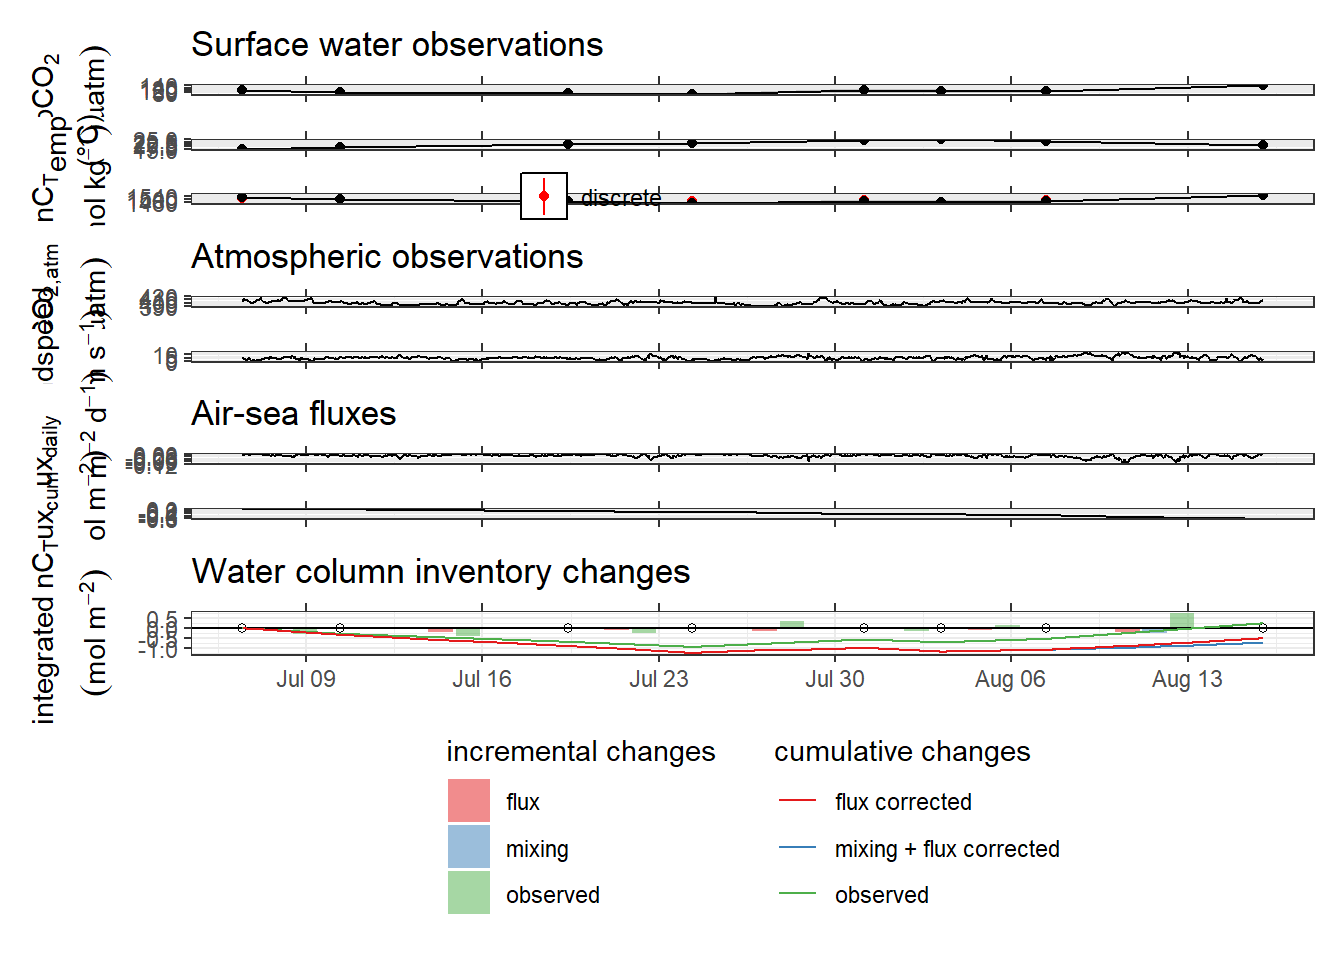
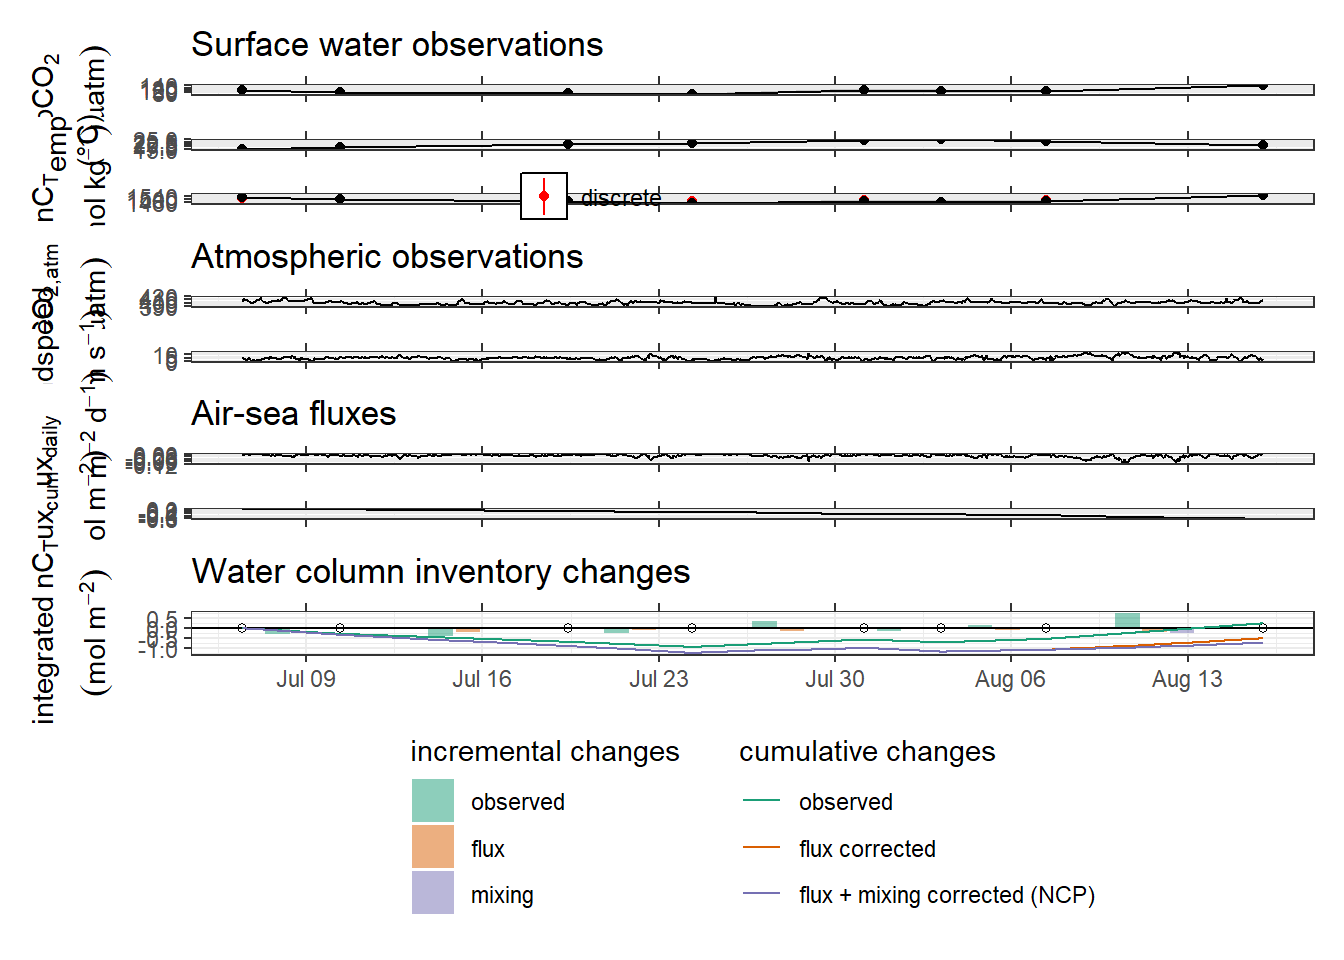
Build site.

diff --git a/docs/CT_dynamics.html b/docs/CT_dynamics.html
@@ -558,16 +558,16 @@ This reproducible <a href="http://rmarkdown.rstudio.com">R Markdown</a> analysis
 <div class="panel panel-default">
 <div class="panel-heading">
 <p class="panel-title">
-<a data-toggle="collapse" data-parent="#workflowr-checks" href="#strongRepositoryversionstrongahrefhttpsgithubcomjensdanielmuellerBloomSailtree3a9d9771bb0649c6eaf51263ec7c28cbbe67de52targetblank3a9d977a"> <span class="glyphicon glyphicon-ok text-success" aria-hidden="true"></span> <strong>Repository version:</strong> <a href="https://github.com/jens-daniel-mueller/BloomSail/tree/3a9d9771bb0649c6eaf51263ec7c28cbbe67de52" target="_blank">3a9d977</a> </a>
+<a data-toggle="collapse" data-parent="#workflowr-checks" href="#strongRepositoryversionstrongahrefhttpsgithubcomjensdanielmuellerBloomSailtree316d86c82f2873b3304ca1480ebd8489c87a3696targetblank316d86ca"> <span class="glyphicon glyphicon-ok text-success" aria-hidden="true"></span> <strong>Repository version:</strong> <a href="https://github.com/jens-daniel-mueller/BloomSail/tree/316d86c82f2873b3304ca1480ebd8489c87a3696" target="_blank">316d86c</a> </a>
 </p>
 </div>
[2 lines of base64/hex data omitted]
 <div class="panel-body">
 <p>
 Great! You are using Git for version control. Tracking code development and connecting the code version to the results is critical for reproducibility.
 </p>
 <p>
-The results in this page were generated with repository version <a href="https://github.com/jens-daniel-mueller/BloomSail/tree/3a9d9771bb0649c6eaf51263ec7c28cbbe67de52" target="_blank">3a9d977</a>. See the <em>Past versions</em> tab to see a history of the changes made to the R Markdown and HTML files.
+The results in this page were generated with repository version <a href="https://github.com/jens-daniel-mueller/BloomSail/tree/316d86c82f2873b3304ca1480ebd8489c87a3696" target="_blank">316d86c</a>. See the <em>Past versions</em> tab to see a history of the changes made to the R Markdown and HTML files.
 </p>
 <p>
 Note that you need to be careful to ensure that all relevant files for the analysis have been committed to Git prior to generating the results (you can use <code>wflow_publish</code> or <code>wflow_git_commit</code>). workflowr only checks the R Markdown file, but you know if there are other scripts or data files that it depends on. Below is the status of the Git repository when the results were generated:
@@ -623,6 +623,40 @@ Message
 </tr>
 </thead>
 <tbody>
+<tr>
+<td>
+Rmd
+</td>
+<td>
+<a href="https://github.com/jens-daniel-mueller/BloomSail/blob/316d86c82f2873b3304ca1480ebd8489c87a3696/analysis/CT_dynamics.Rmd" target="_blank">316d86c</a>
+</td>
+<td>
+jens-daniel-mueller
+</td>
+<td>
+2020-05-11
+</td>
+<td>
+finalized mixing correction
+</td>
+</tr>
+<tr>
+<td>
+html
+</td>
+<td>
+<a href="https://rawcdn.githack.com/jens-daniel-mueller/BloomSail/5e016a60e199b0b776716e247ef9281827da5938/docs/CT_dynamics.html" target="_blank">5e016a6</a>
+</td>
+<td>
+jens-daniel-mueller
+</td>
+<td>
+2020-05-11
+</td>
+<td>
+Build site.
+</td>
+</tr>
 <tr>
 <td>
 Rmd
@@ -4151,7 +4185,7 @@ p_tm_profiles_ID_long_rel &lt;- tm_profiles_ID_long_180723_dep %&gt;%
   theme_bw()
 
 p_tm_profiles_ID_long + p_tm_profiles_ID_long_rel</code></pre>
-<p><img src="figure/CT_dynamics.Rmd/i_nCT_depth_distribution_180723-1.png" width="672" style="display: block; margin: auto;" /></p>
+<p><img src="figure/CT_dynamics.Rmd/nCT_cum_profiles_180723-1.png" width="672" style="display: block; margin: auto;" /></p>
 <pre class="r"><code>rm(tm_profiles_ID_long_180723,
    tm_profiles_ID_long_180723_dep,
    p_tm_profiles_ID_long,
@@ -4191,7 +4225,7 @@ p_tm_profiles_ID_long_rel &lt;- tm_profiles_ID_long_180723_dep %&gt;%
   theme_bw()
 
 p_tm_profiles_ID_long + p_tm_profiles_ID_long_rel</code></pre>
-<p><img src="figure/CT_dynamics.Rmd/i_tem_distribution_180723-1.png" width="672" style="display: block; margin: auto;" /></p>
+<p><img src="figure/CT_dynamics.Rmd/tem_cum_profiles_180723-1.png" width="672" style="display: block; margin: auto;" /></p>
 <pre class="r"><code>rm(tm_profiles_ID_long_180723,
    tm_profiles_ID_long_180723_dep,
    p_tm_profiles_ID_long,
@@ -4214,7 +4248,7 @@ p_tm_profiles_ID_long + p_tm_profiles_ID_long_rel</code></pre>
 <p>The cruise mean pCO<sub>2</sub> recorded in profiling-mode (stations only) and depths &lt; 6m was used for gas exchange calcualtions.</p>
 <pre class="r"><code>tm_profiles_surface_long &lt;- tm_profiles %&gt;% 
   filter(dep &lt; surface_dep) %&gt;% 
-  select(date_time = date_time_ID, ID, tem, pCO2_water = pCO2, nCT) %&gt;% 
+  select(date_time = date_time_ID, ID, tem, pCO2 = pCO2, nCT) %&gt;% 
   pivot_longer(tem:nCT, values_to = &quot;value&quot;, names_to = &quot;var&quot;)
 
 tm_profiles_surface_long_ID &lt;- tm_profiles_surface_long %&gt;% 
@@ -4222,15 +4256,10 @@ tm_profiles_surface_long_ID &lt;- tm_profiles_surface_long %&gt;%
   summarise_all(list(~mean(.), ~sd(.), ~min(.), ~max(.))) %&gt;% 
   ungroup()
 
-# tb_surface_ID &lt;- tb_surface %&gt;% 
-#   group_by(ID, var) %&gt;% 
-#   summarise(date_time_ID = mean(date_time_ID, na.rm = TRUE),
-#             value_mean = mean(value, na.rm = TRUE),
-#             value_sd = sd(value, na.rm = TRUE)) %&gt;% 
-#   ungroup()
+rm(tm_profiles_surface_long)
 
 p_pCO2_surf &lt;- tm_profiles_surface_long_ID %&gt;%
-  filter(var == &quot;pCO2_water&quot;) %&gt;% 
+  filter(var == &quot;pCO2&quot;) %&gt;% 
   ggplot(aes(x=date_time))+
   geom_ribbon(aes(ymin=mean-sd, ymax=mean+sd), alpha=0.2)+
   geom_path(aes(y=mean))+
@@ -4309,15 +4338,17 @@ og &lt;- og %&gt;%
 rm(end, start)</code></pre>
 <p>Data sets for atmospheric and seawater observations were merged and interpolated to a common time stamp.</p>
 <pre class="r"><code>tm_profiles_surface_ID &lt;- tm_profiles_surface_long_ID %&gt;% 
-  filter(var %in% c(&quot;pCO2_water&quot;, &quot;tem&quot;)) %&gt;% 
+  filter(var %in% c(&quot;pCO2&quot;, &quot;tem&quot;)) %&gt;% 
   select(date_time:mean) %&gt;% 
   pivot_wider(names_from = &quot;var&quot;, values_from = &quot;mean&quot;)
+
+rm(tm_profiles_surface_long_ID)
 
 tm_og &lt;- full_join(og, tm_profiles_surface_ID) %&gt;% 
   arrange(date_time)
 
 tm_og &lt;- tm_og %&gt;% 
-  mutate(pCO2_water = approxfun(date_time, pCO2_water)(date_time),
+  mutate(pCO2 = approxfun(date_time, pCO2)(date_time),
          tem = approxfun(date_time, tem)(date_time),
          wind = approxfun(date_time, wind)(date_time)) %&gt;% 
   filter(!is.na(pCO2_atm))
@@ -4331,9 +4362,6 @@ tm_og &lt;- tm_og %&gt;%
 <pre class="r"><code>p_pCO2_atm &lt;- tm_og %&gt;%
   ggplot(aes(x=date_time))+
   geom_path(aes(y=pCO2_atm))+
-  # geom_path(aes(y=pCO2_atm_daily, col=&quot;24h&quot;))+
-  # scale_color_manual(values = c(&quot;red&quot;, &quot;black&quot;),
-  #                    guide = FALSE)+
   scale_x_datetime(date_breaks = &quot;week&quot;,
                    sec.axis = dup_axis())+
   labs(y = expression(atop(pCO[&quot;2,atm&quot;], (mu*atm))),
@@ -4344,8 +4372,6 @@ tm_og &lt;- tm_og %&gt;%
 p_wind &lt;- tm_og %&gt;%
   ggplot(aes(x=date_time))+
   geom_path(aes(y=wind))+
-  # geom_path(aes(y=wind_daily, col=&quot;24h&quot;))+
-  # scale_color_brewer(palette = &quot;Set1&quot;)+
   scale_x_datetime(date_breaks = &quot;week&quot;,
                    sec.axis = dup_axis())+
   labs(y = expression(atop(windspeed, (m~s^{-1}))))+
@@ -4382,7 +4408,7 @@ p_pCO2_atm + p_wind +
 # Sc_W14(20)
 
 tm_og &lt;- tm_og %&gt;% 
-  mutate(dpCO2 = pCO2_water - pCO2_atm,
+  mutate(dpCO2 = pCO2 - pCO2_atm,
          dCO2  = dpCO2 * K0(S=6.92, T=tem),
          # W92 = gas_transfer(t = tem, u10 = wind, species = &quot;CO2&quot;,
          #                      method = &quot;Wanninkhof1&quot;)* 60^2 * 100,
@@ -4414,7 +4440,6 @@ rm(Sc_W14)</code></pre>
 tm_og &lt;- tm_og %&gt;% 
   mutate(scale = 24*2) %&gt;% 
   mutate(flux_scale = flux / scale) %&gt;% 
-  #group_by(freq, k_para) %&gt;% 
   arrange(date_time) %&gt;% 
   mutate(flux_cum = cumsum(flux_scale)) %&gt;% 
   ungroup()
@@ -4448,19 +4473,20 @@ p_flux_daily + p_flux_cum +
 <pre class="r"><code>i_dep_lim &lt;- 12
 i_dep_mix_lim &lt;- 17</code></pre>
 <pre class="r"><code># extract CT data for fixed depth approach, depth limit 10m
-inCT_10 &lt;- inCT_fixed_dep %&gt;% 
+NCP &lt;- inCT_fixed_dep %&gt;% 
   filter(dep_i == i_dep_lim, sign==&quot;total&quot;) %&gt;% 
   select(-c(sign, dep_i))
 
 rm(inCT_fixed_dep)
 
-inCT_10 &lt;- inCT_10 %&gt;%
+NCP &lt;- NCP %&gt;%
   select(ID, date_time = date_time_ID, date_time_ID_ref, nCT_i_diff, nCT_i_cum)
 
 # date of the second last cruise
-date_180806 &lt;- unique(inCT_10$date_time)[7]
-
-# calculate cumulative air-sea fluxes affecting 0-10m
+date_180806 &lt;- unique(NCP$date_time)[7]</code></pre>
+<div id="air-sea-fluxes-1" class="section level3">
+<h3><span class="header-section-number">6.3.1</span> Air-sea fluxes</h3>
+<pre class="r"><code># calculate cumulative air-sea fluxes affecting surface water column
 tm_og_flux &lt;- tm_og %&gt;% 
   mutate(flux_scale = if_else(date_time &gt; date_180806,
                               i_dep_lim/i_dep_mix_lim * flux_scale,
@@ -4469,22 +4495,23 @@ tm_og_flux &lt;- tm_og %&gt;%
   mutate(flux_cum = cumsum(flux_scale)) %&gt;% 
   select(date_time, flux_cum)
 
-# calculate cumulative air-sea fluxes affecting 10-17m
+# calculate cumulative air-sea fluxes affecting deepened mixed layer
 tm_og_flux_dep &lt;- tm_og %&gt;% 
   filter(date_time &gt; date_180806) %&gt;% 
-  mutate(flux_scale = (i_dep_mix_lim - i_dep_lim)/i_dep_mix_lim * flux_scale) %&gt;%
+  mutate(flux_scale = 
+           (i_dep_mix_lim - i_dep_lim)/i_dep_mix_lim * flux_scale) %&gt;%
   arrange(date_time) %&gt;% 
   mutate(flux_cum = cumsum(flux_scale)) %&gt;% 
   select(date_time, flux_cum)
 
-inCT_10_flux &lt;- full_join(inCT_10, tm_og_flux) %&gt;% 
+NCP_flux &lt;- full_join(NCP, tm_og_flux) %&gt;% 
   arrange(date_time)
 
-rm(tm_og_flux, inCT_10, tm_og)
+rm(tm_og_flux, NCP, tm_og)
 
 
 # linear interpolation of cumulative changes to frequency of the flux estimates estimates 
-inCT_10_flux &lt;- inCT_10_flux %&gt;% 
+NCP_flux &lt;- NCP_flux %&gt;% 
   mutate(nCT_i_cum = approxfun(date_time, nCT_i_cum)(date_time),
          flux_cum = approxfun(date_time, flux_cum)(date_time)) %&gt;% 
     fill(flux_cum) %&gt;% 
@@ -4492,64 +4519,77 @@ inCT_10_flux &lt;- inCT_10_flux %&gt;%
 
 
 # calculate cumulative fluxes inbetween cruises 
-inCT_10_flux_diff &lt;- inCT_10_flux %&gt;% 
+NCP_flux_diff &lt;- NCP_flux %&gt;% 
   filter(!is.na(date_time_ID_ref)) %&gt;% 
   mutate(flux_diff = flux_cum - lag(flux_cum, default = 0)) %&gt;% 
   select(date_time_ID_ref, observed=nCT_i_diff, flux=flux_diff) %&gt;% 
-  pivot_longer(cols = 2:3, names_to = &quot;var&quot;, values_to = &quot;value_diff&quot;)
-
-
-# calculate mixing with deep waters, corrected for air sea fluxes
-inCT_10_mix &lt;- tm_profiles_ID_long %&gt;% 
+  pivot_longer(cols = 2:3, names_to = &quot;var&quot;, values_to = &quot;value_diff&quot;)</code></pre>
+</div>
+<div id="vertical-mixing" class="section level3">
+<h3><span class="header-section-number">6.3.2</span> Vertical mixing</h3>
+<pre class="r"><code># calculate mixing with deep waters, corrected for air sea fluxes
+NCP_mix &lt;- tm_profiles_ID_long %&gt;% 
   filter(ID == &quot;180815&quot;,
          var == &quot;nCT&quot;,
          dep &lt; i_dep_mix_lim,
          dep &gt; i_dep_lim) %&gt;% 
-  group_by(ID, date_time_ID,
-           date_time_ID_ref) %&gt;% 
-  summarise(value_diff = sum(value_diff)/1000 + min(tm_og_flux_dep$flux_cum)) %&gt;% 
+  group_by(ID, date_time_ID, date_time_ID_ref) %&gt;% 
+  summarise(value_diff = 
+              sum(value_diff)/1000 + min(tm_og_flux_dep$flux_cum)) %&gt;% 
   ungroup()
 
 rm(tm_og_flux_dep)
 
-inCT_10_mix_diff &lt;- inCT_10_mix %&gt;% 
+NCP_mix_diff &lt;- NCP_mix %&gt;% 
   select(date_time_ID_ref, value_diff) %&gt;% 
   mutate(var=&quot;mixing&quot;)
 
-inCT_10_flux_mix_diff &lt;- 
-  full_join(inCT_10_flux_diff, inCT_10_mix_diff)
+NCP_flux_mix_diff &lt;- 
+  full_join(NCP_flux_diff, NCP_mix_diff)
 
-inCT_10_flux_mix &lt;-
-  full_join(inCT_10_flux,
-            inCT_10_mix %&gt;% rename(mix_cum = value_diff))
+NCP_flux_mix &lt;-
+  full_join(NCP_flux,
+            NCP_mix %&gt;% rename(mix_cum = value_diff))
 
-rm(inCT_10_mix, inCT_10_mix_diff, inCT_10_flux, inCT_10_flux_diff, date_180806)
+rm(NCP_mix, NCP_mix_diff, NCP_flux, NCP_flux_diff, date_180806)
 
-inCT_10_flux_mix &lt;- inCT_10_flux_mix %&gt;% 
+NCP_flux_mix &lt;- NCP_flux_mix %&gt;% 
   arrange(date_time) %&gt;% 
   fill(ID) %&gt;% 
   mutate(mix_cum = if_else(ID %in% c(&quot;180806&quot;, 180815), mix_cum, 0),
          mix_cum = na.approx(mix_cum),
          nCT_i_flux_mix_cum = nCT_i_flux_cum + mix_cum)
 
-  
-p_inCT &lt;- inCT_10_flux_mix %&gt;% 
+# reorder factors for plotting
+NCP_flux_mix_diff &lt;- NCP_flux_mix_diff %&gt;% 
+  mutate(var = factor(var, c(&quot;observed&quot;, &quot;flux&quot;, &quot;mixing&quot;)))
+
+NCP_flux_mix_long &lt;- NCP_flux_mix %&gt;% 
+  select(date_time, nCT_i_cum, nCT_i_flux_cum, nCT_i_flux_mix_cum) %&gt;% 
+  pivot_longer(nCT_i_cum:nCT_i_flux_mix_cum,
+               values_to = &quot;value&quot;,
+               names_to = &quot;var&quot;) %&gt;% 
+  mutate(var = fct_recode(var, 
+                          observed = &quot;nCT_i_cum&quot;,
+                          `flux corrected` = &quot;nCT_i_flux_cum&quot;,
+                          `flux + mixing corrected (NCP)` = &quot;nCT_i_flux_mix_cum&quot;))
+
+
+p_inCT &lt;- NCP_flux_mix_long %&gt;% 
   arrange(date_time) %&gt;% 
   ggplot()+
-  geom_col(data = inCT_10_flux_mix_diff,
+  geom_col(data = NCP_flux_mix_diff,
            aes(date_time_ID_ref, value_diff, fill=var),
            position = position_dodge2(preserve = &quot;single&quot;),
            alpha=0.5)+
   geom_hline(yintercept = 0)+
   geom_point(data = cruise_dates, aes(date_time_ID, 0), shape=21)+
-  geom_line(aes(date_time, nCT_i_cum, col=&quot;observed&quot;))+
-  geom_line(aes(date_time, nCT_i_flux_mix_cum, col=&quot;mixing + flux corrected&quot;))+
-  geom_line(aes(date_time, nCT_i_flux_cum, col=&quot;flux corrected&quot;))+
+  geom_line(aes(date_time, value, col=var))+
   scale_x_datetime(date_breaks = &quot;week&quot;,
                    date_labels = &quot;%b %d&quot;,
                    sec.axis = dup_axis())+
-  scale_fill_brewer(palette = &quot;Set1&quot;, name=&quot;incremental changes&quot;)+
-  scale_color_brewer(palette = &quot;Set1&quot;, name=&quot;cumulative changes&quot;)+
+  scale_fill_brewer(palette = &quot;Dark2&quot;, name=&quot;incremental changes&quot;)+
+  scale_color_brewer(palette = &quot;Dark2&quot;, name=&quot;cumulative changes&quot;)+
   labs(y=expression(atop(integrated~nC[T], (mol~m^{-2}))),
        title = &quot;Water column inventory changes&quot;)+
   guides(guide_colourbar(order = 1))+
@@ -4559,12 +4599,15 @@ p_inCT &lt;- inCT_10_flux_mix %&gt;%
         legend.direction = &quot;vertical&quot;)
 
 p_inCT</code></pre>
-<p><img src="figure/CT_dynamics.Rmd/inCT_correction-1.png" width="672" style="display: block; margin: auto;" /></p>
-<pre class="r"><code>inCT_10_flux_mix %&gt;%
-  write_csv(here::here(&quot;Data/_merged_data_files&quot;, &quot;tm_NCP_cum.csv&quot;))
+<p><img src="figure/CT_dynamics.Rmd/calculate%20mixing%20correction-1.png" width="672" style="display: block; margin: auto;" /></p>
+<pre class="r"><code>NCP_flux_mix %&gt;%
+  write_csv(here::here(&quot;Data/_merged_data_files/CT_dynamics&quot;,
+                       &quot;tm_NCP_cum.csv&quot;))
 
-inCT_10_flux_mix_diff %&gt;%
-  write_csv(here::here(&quot;Data/_merged_data_files&quot;, &quot;tm_NCP_inc.csv&quot;))</code></pre>
+NCP_flux_mix_diff %&gt;%
+  write_csv(here::here(&quot;Data/_merged_data_files/CT_dynamics&quot;,
+                       &quot;tm_NCP_inc.csv&quot;))</code></pre>
+</div>
 </div>
 </div>
 <div id="open-tasks-questions" class="section level1">
